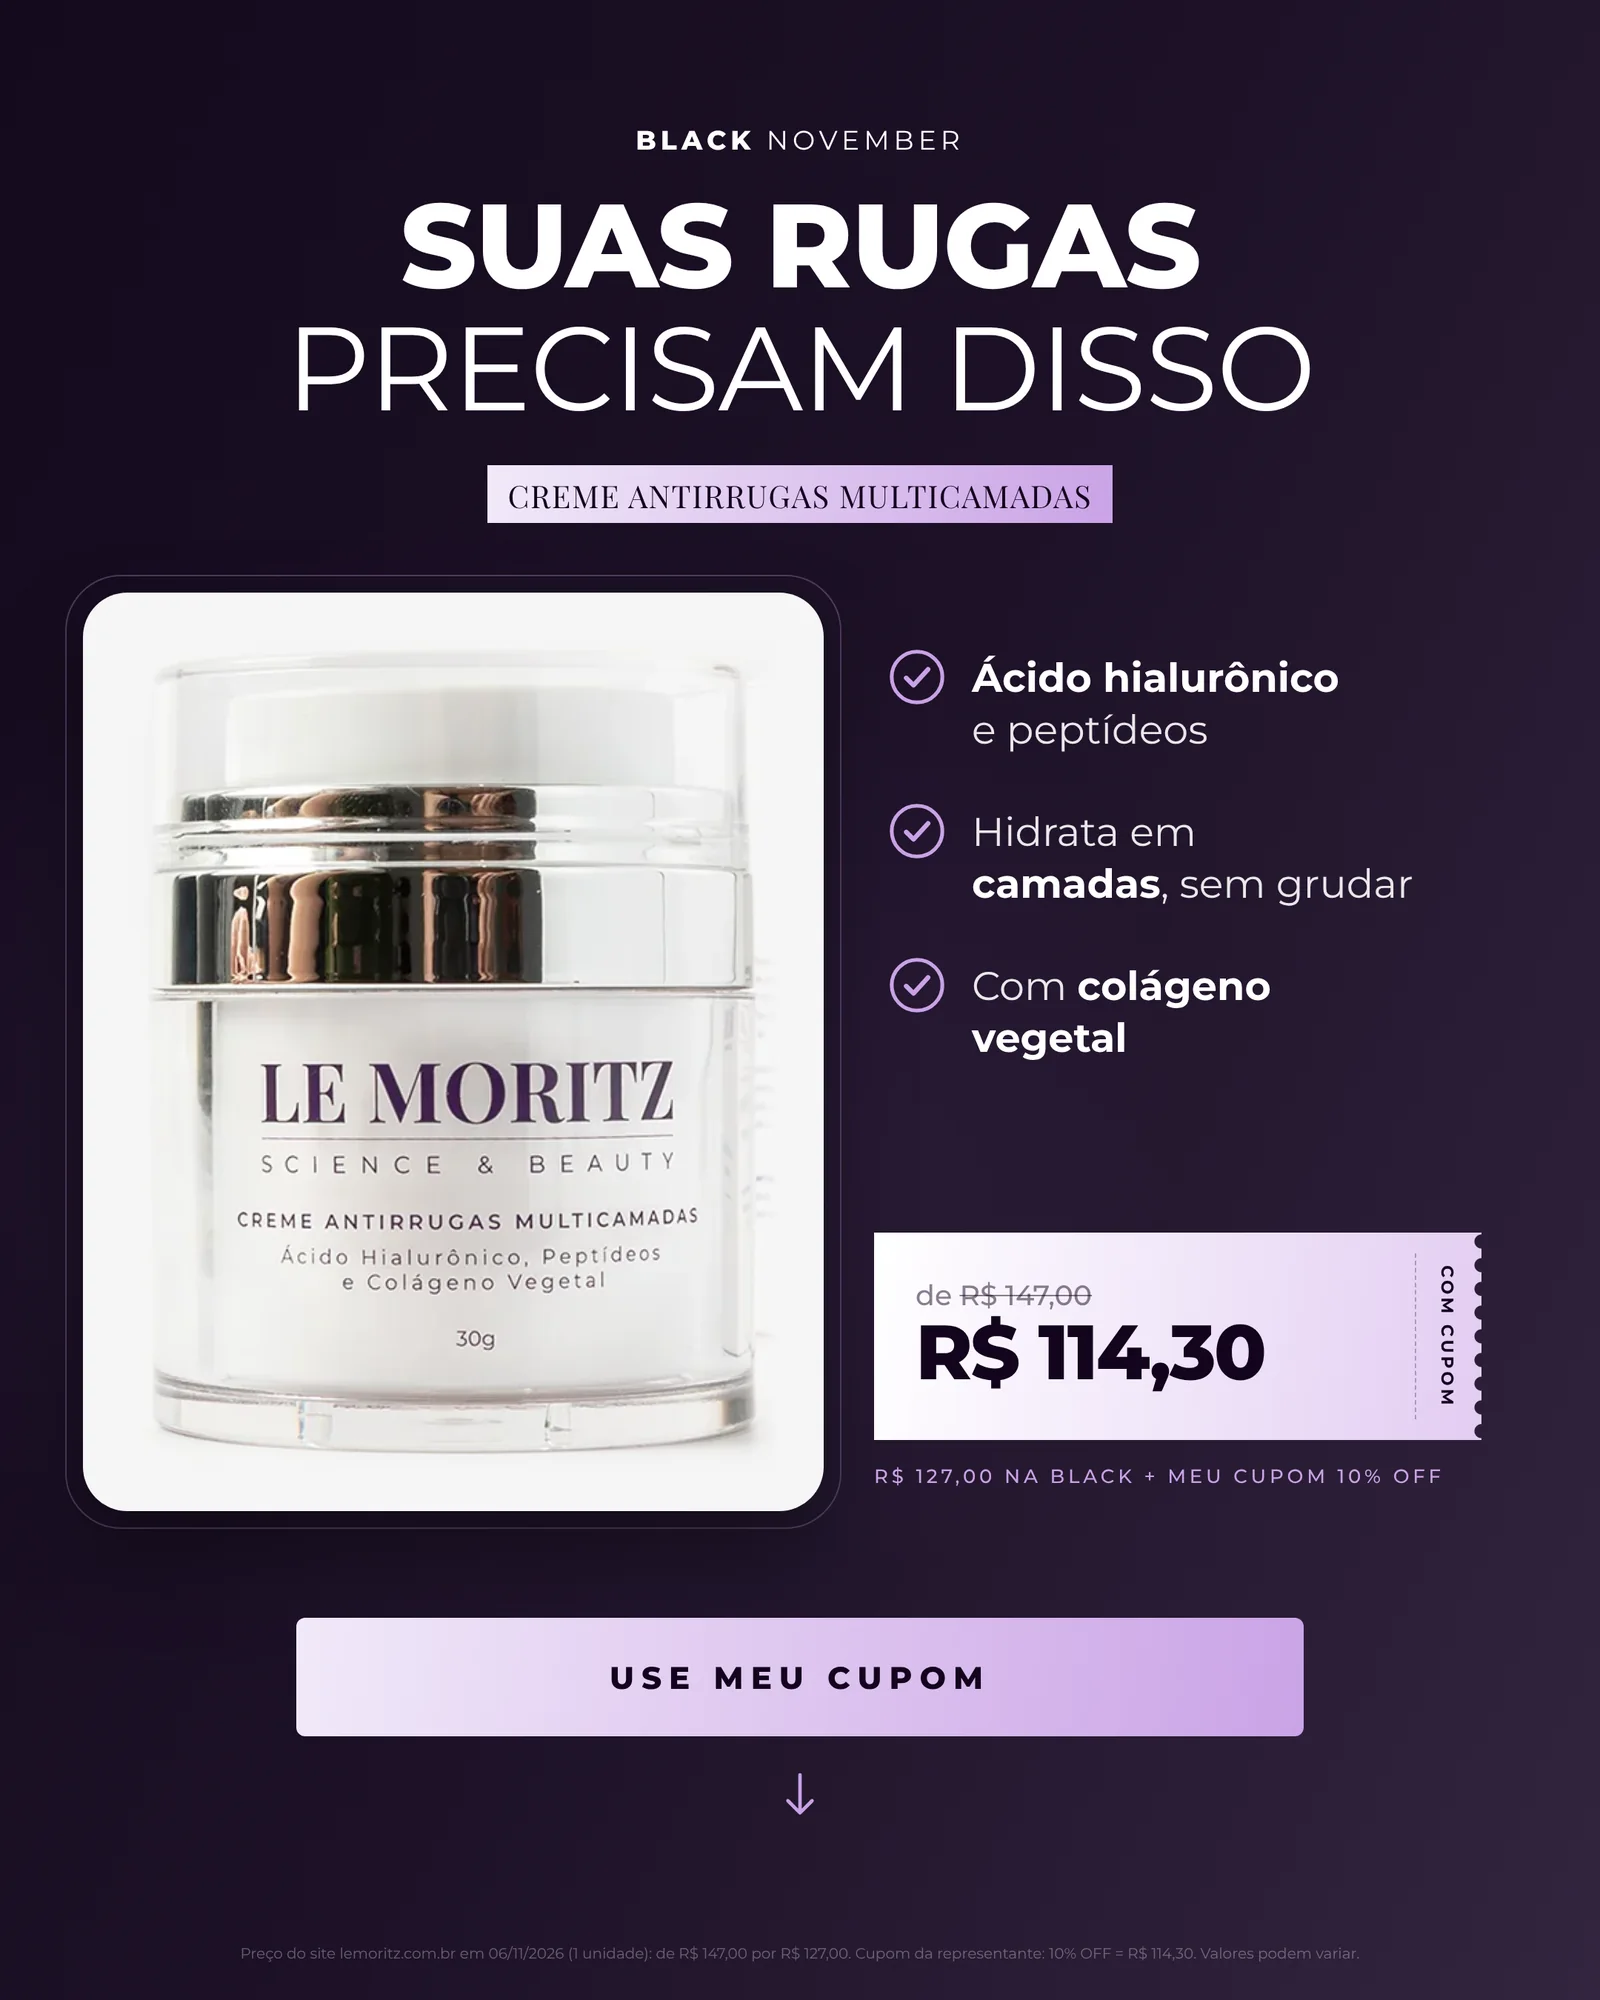
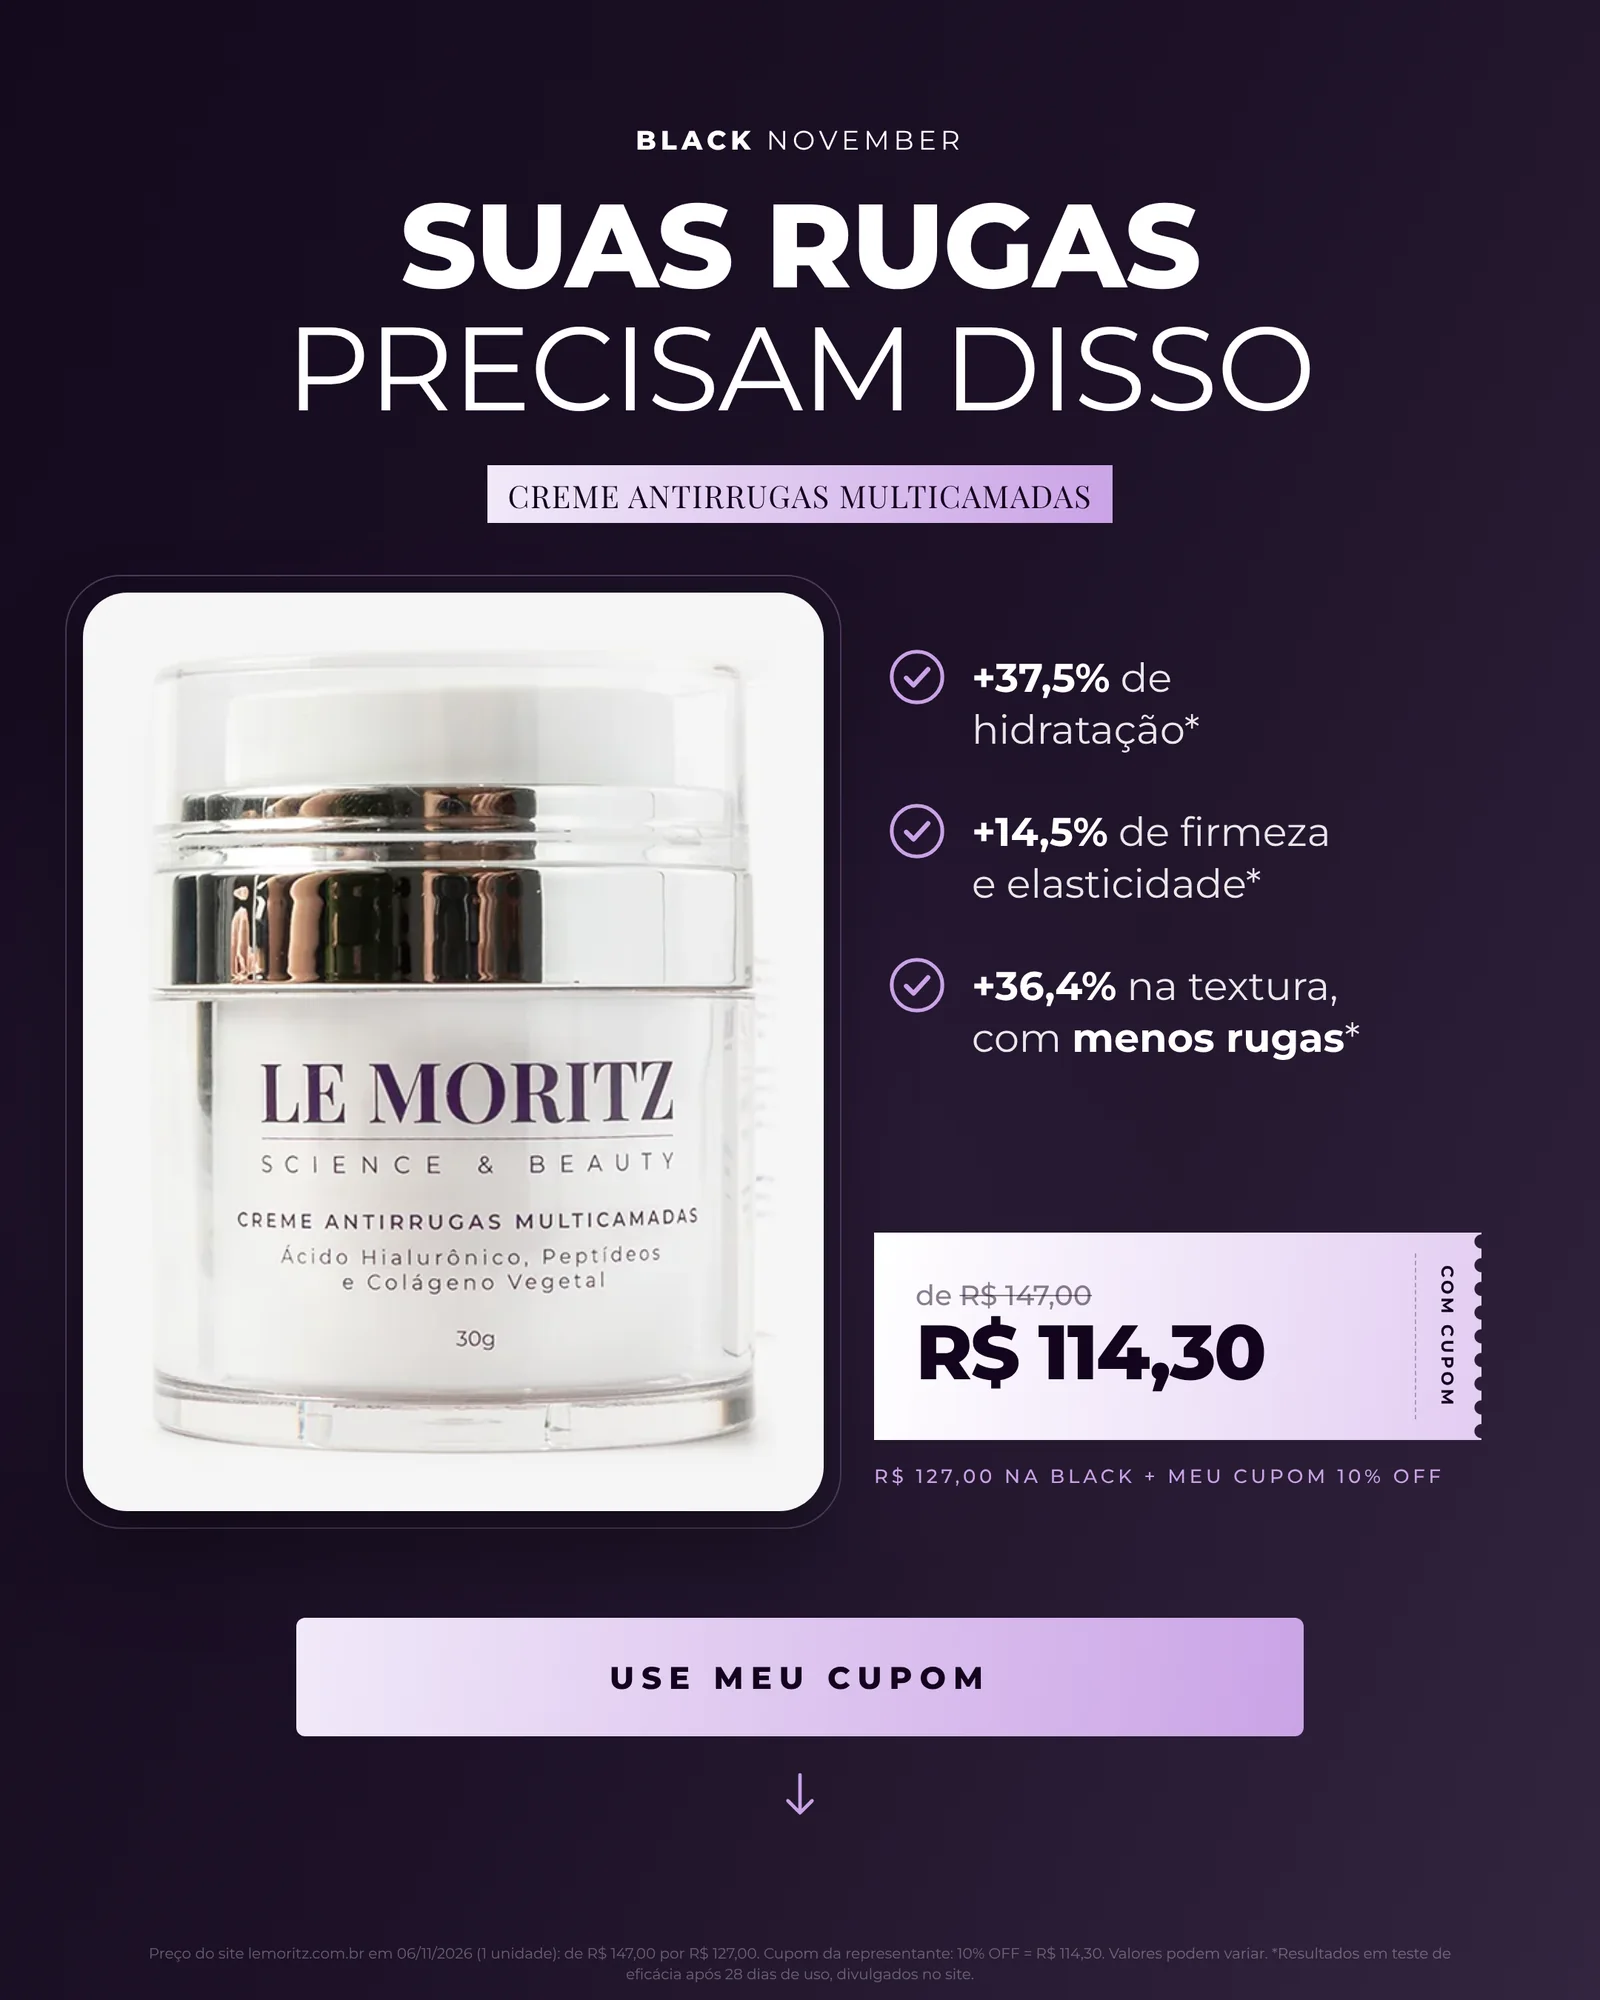
Creme Multicamadas: resultados do teste de 28 dias na imagem e nos textos
- Bullets: +37,5% hidratação, +14,5% firmeza e elasticidade, +36,4% textura e rugas
- Nota de rodapé com a fonte (teste de eficácia de 28 dias, divulgado no site)

Claude-Session: https://claude.ai/code/session_01TW8fczpHEyq63AUCD6efa5

Changed region(s): [[0.5938, 0.403, 0.875, 0.527], [0.5938, 0.31, 0.8125, 0.372], [0.375, 0.961, 0.5938, 0.992]]

diff --git a/index.html b/index.html
@@ -1103,13 +1103,13 @@ details .corpo{padding:0 0 16px}
       </article>
       <article class="peca vertical" data-cat="produtos">
         <div class="th" onclick="abrirLupa(this)">
-          <img src="imagens/black_creme_multicamadas.webp" alt="Creme Antirrugas Multicamadas &#8211; Suas rugas precisam disso." loading="lazy">
+          <img src="imagens/black_creme_multicamadas.webp?v=2" alt="Creme Antirrugas Multicamadas &#8211; Suas rugas precisam disso." loading="lazy">
           <span class="tipo">Imagem</span>
         </div>
         <div class="c">
           <b>Creme Antirrugas Multicamadas</b>
           <span class="d">Suas rugas precisam disso. De R$147 por R$114,30 com cupom.</span>
-          <a class="cta" href="imagens/black_creme_multicamadas.webp" download>Baixar a imagem</a>
+          <a class="cta" href="imagens/black_creme_multicamadas.webp?v=2" download>Baixar a imagem</a>
           <button class="cta vazio tx-bt" onclick="abrirTextos('creme_multicamadas')">Textos prontos</button>
         </div>
       </article>
@@ -1913,8 +1913,8 @@ var TX_PECA = {
 "creme_multicamadas": {
 "t": "Creme Antirrugas Multicamadas",
 "m": [
-"Creme pra cuidar das rugas e hidratar de verdade, sem deixar a pele grudando. É o multicamadas da Le Moritz, tá na Black e meu cupom [CUPOM] dá mais 10%.",
-"Oi, amiga! Lembrei de você quando vi esse creme da Le Moritz.\n\nEle hidrata bem, ajuda nas rugas e não deixa a pele grudando. É feito pra pele madura mesmo.\n\nTá na Black, e com meu cupom [CUPOM] você ganha mais 10%. Quer dar uma olhada?",
+"Em 28 dias de uso, o teste do creme multicamadas mostrou pele mais hidratada, mais firme e com menos rugas. Tá na Black e meu cupom [CUPOM] dá mais 10%. Me chama!",
+"Oi, amiga! Lembrei de você quando vi esse creme da Le Moritz.\n\nNo teste de 28 dias, a pele ficou mais hidratada, mais firme e com menos rugas. E ele não deixa a pele grudando, é feito pra pele madura mesmo.\n\nTá na Black, e com meu cupom [CUPOM] você ganha mais 10%. Quer dar uma olhada?",
 "Oi, [NOME]! O seu creme ainda tá rendendo? Se tiver no fim, agora na Black é uma boa hora pra repor, e meu cupom [CUPOM] ainda tira mais 10%."
 ]
 },
